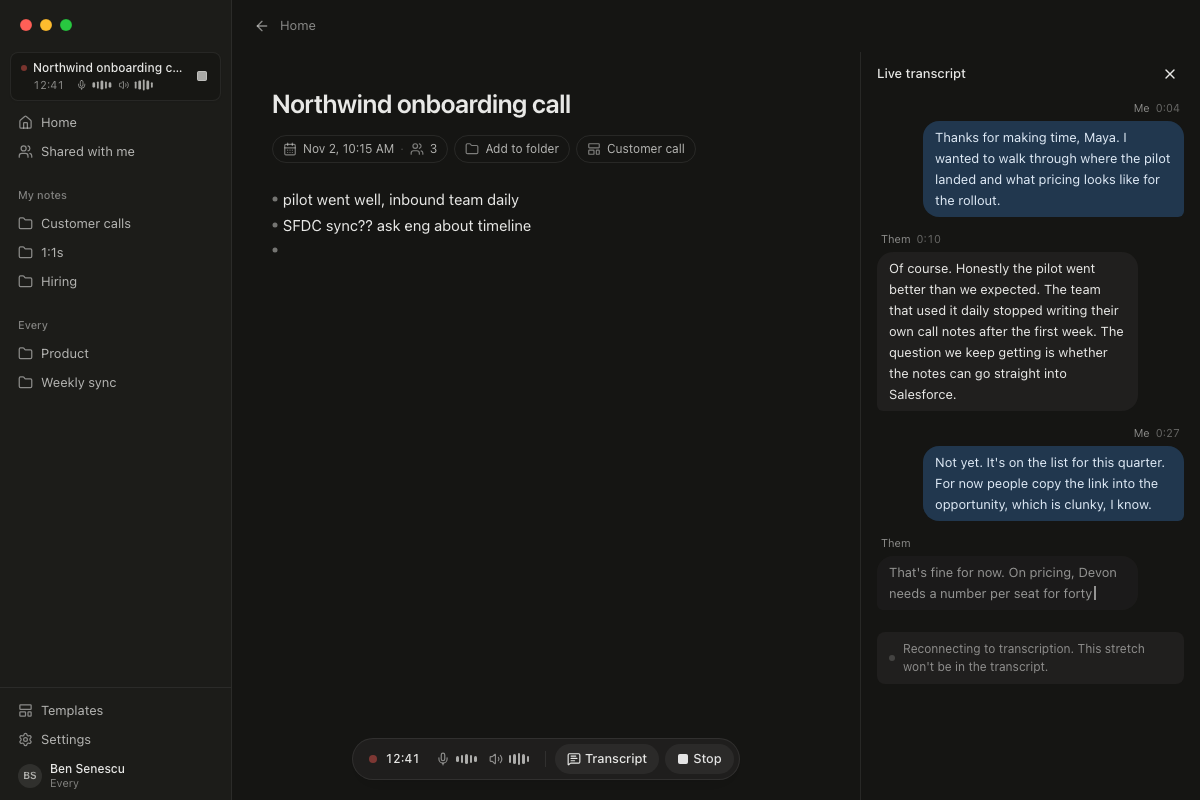
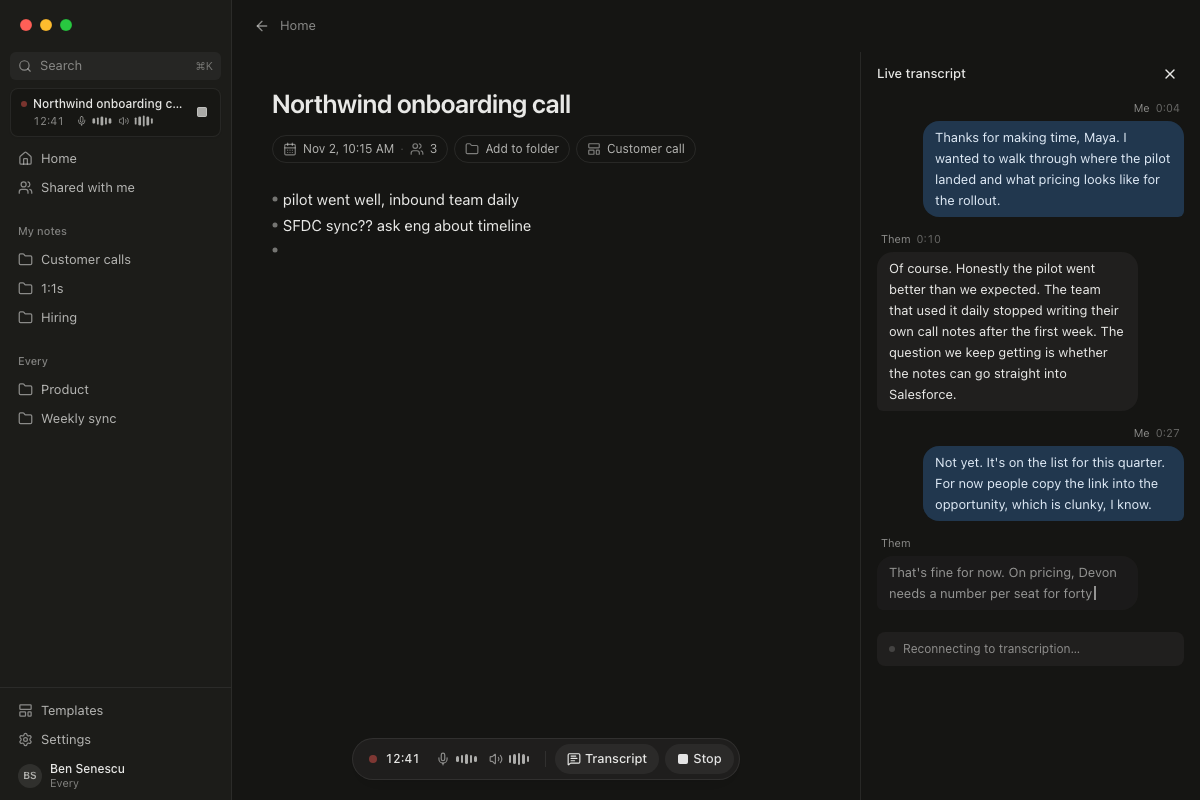
desktop: transcription catching-up hint, honest reconnecting copy, Finishing… while a long Stop replays (#40)

diff --git a/packages/ui/src/screens/MeetingScreen.tsx b/packages/ui/src/screens/MeetingScreen.tsx
@@ -50,6 +50,14 @@ import { ErrorState, ownerLabel } from "./parts";
 import { ChannelMeters, Elapsed, RecordDot } from "./recording";
 import { Transcript } from "./Transcript";
 
+export type TranscriptionNote = "reconnecting" | "catching_up";
+
+/** What the live view says about transcription. */
+export const transcriptionText: Record<TranscriptionNote, string> = {
+  reconnecting: "Reconnecting to transcription…",
+  catching_up: "Catching up on the transcript…",
+};
+
 export type MeetingPhase = "before" | "during" | "after";
 export type MeetingTab = "notes" | "jottings" | "transcript";
 
@@ -72,8 +80,13 @@ export interface MeetingScreenProps {
   warning?: string | null;
   /** The helper's own words for the warning, shown on hover. */
   warningDetail?: string | null;
-  /** Live transcription can't be reached: what's said meanwhile won't be transcribed. */
-  transcriptionPaused?: boolean;
+  /**
+   * Live transcription's state: "reconnecting" (it can't be reached; the audio is kept) or
+   * "catching_up" (that audio is being transcribed and lands in place). Null when live.
+   */
+  transcription?: TranscriptionNote | null;
+  /** Stop was pressed and the recording is finishing (a long outage's replay can take a while). */
+  stopping?: boolean;
   folders: Folder[];
   templates: Template[];
   orgName: string;
@@ -139,7 +152,7 @@ export function MeetingScreen(props: MeetingScreenProps) {
         <TranscriptDrawer
           live={props.live}
           meeting={meeting}
-          paused={!!props.transcriptionPaused}
+          note={props.transcription ?? null}
           onClose={() => setTranscriptOpen(false)}
         />
       )}
@@ -626,7 +639,8 @@ function ControlBar({
   drawerOpen,
   warning,
   warningDetail,
-  transcriptionPaused,
+  transcription,
+  stopping,
 }: MeetingScreenProps & {
   transcriptOpen: boolean;
   onToggleTranscript: () => void;
@@ -639,13 +653,17 @@ function ControlBar({
         drawerOpen && "right-[340px]",
       )}
     >
-      {phase === "during" && transcriptionPaused && !drawerOpen && (
+      {phase === "during" && (stopping || (transcription && !drawerOpen)) && (
         <p
           role="status"
           className="animate-in fade-in-0 pointer-events-auto flex items-center gap-1.5 rounded-full bg-background/85 px-3 py-1 text-[12px] text-muted-foreground backdrop-blur"
         >
           <span className="record-pulse size-1.5 rounded-full bg-foreground/40" />
-          {PAUSED_TEXT}
+          {stopping
+            ? transcription === "catching_up"
+              ? transcriptionText.catching_up
+              : "Saving…"
+            : transcriptionText[transcription!]}
         </p>
       )}
       {phase === "during" && warning && (
@@ -702,15 +720,26 @@ function ControlBar({
               <MessageSquareText />
               Transcript
             </Button>
-            <Button
-              variant="secondary"
-              size="sm"
-              className="h-8 rounded-full bg-foreground/[0.06] px-3"
-              onClick={onStop}
-            >
-              <Square className="size-3 fill-current" />
-              Stop
-            </Button>
+            {stopping ? (
+              <Button
+                variant="secondary"
+                size="sm"
+                className="h-8 rounded-full bg-foreground/[0.06] px-3"
+                pending
+              >
+                Finishing…
+              </Button>
+            ) : (
+              <Button
+                variant="secondary"
+                size="sm"
+                className="h-8 rounded-full bg-foreground/[0.06] px-3"
+                onClick={onStop}
+              >
+                <Square className="size-3 fill-current" />
+                Stop
+              </Button>
+            )}
           </Bar>
         )}
       </div>
@@ -722,18 +751,15 @@ function Bar({ children }: { children: ReactNode }) {
   return <div className="flex items-center gap-1">{children}</div>;
 }
 
-const PAUSED_TEXT =
-  "Reconnecting to transcription. This stretch won't be in the transcript.";
-
 function TranscriptDrawer({
   live,
   meeting,
-  paused,
+  note,
   onClose,
 }: {
   live: LiveState;
   meeting: MeetingDetail;
-  paused: boolean;
+  note: TranscriptionNote | null;
   onClose: () => void;
 }) {
   return (
@@ -769,13 +795,13 @@ function TranscriptDrawer({
           follow
           emptyText="Listening… what's said shows up here."
         />
-        {paused && (
+        {note && (
           <p
             role="status"
             className="mt-4 flex items-center gap-2 rounded-lg bg-muted px-3 py-2 text-[12px] text-muted-foreground"
           >
             <span className="record-pulse size-1.5 shrink-0 rounded-full bg-foreground/40" />
-            {PAUSED_TEXT}
+            {transcriptionText[note]}
           </p>
         )}
       </div>

diff --git a/packages/ui/src/screens/screens.test.tsx b/packages/ui/src/screens/screens.test.tsx
@@ -112,30 +112,82 @@ describe("MeetingScreen", () => {
     expect(onStop).toHaveBeenCalledOnce();
   });
 
-  it("during: says when live transcription is reconnecting", () => {
-    render(
+  const live = {
+    recording: {
+      meetingId: "m-1",
+      title: "Pricing call",
+      startedAt: "",
+      mode: "realtime" as const,
+      mic: "ok" as const,
+      system: "ok" as const,
+    },
+    levels: { mic: 0, system: 0 },
+    partial: { me: "", them: "" },
+    elapsedMs: 0,
+  };
+
+  it("during: says when transcription is reconnecting, then catching up", () => {
+    const { rerender } = render(
       <MeetingScreen
         {...base}
         phase="during"
-        transcriptionPaused
-        live={{
-          recording: {
-            meetingId: "m-1",
-            title: "Pricing call",
-            startedAt: "",
-            mode: "realtime",
-            mic: "ok",
-            system: "ok",
-          },
-          levels: { mic: 0, system: 0 },
-          partial: { me: "", them: "" },
-          elapsedMs: 0,
-        }}
+        transcription="reconnecting"
+        live={live}
       />,
     );
-    expect(screen.getByRole("status").textContent).toMatch(
-      /Reconnecting to transcription/,
+    expect(screen.getByRole("status").textContent).toBe(
+      "Reconnecting to transcription…",
     );
+    rerender(
+      <MeetingScreen
+        {...base}
+        phase="during"
+        transcription="catching_up"
+        live={live}
+      />,
+    );
+    expect(screen.getByRole("status").textContent).toBe(
+      "Catching up on the transcript…",
+    );
+    rerender(
+      <MeetingScreen
+        {...base}
+        phase="during"
+        transcription={null}
+        live={live}
+      />,
+    );
+    expect(screen.queryByRole("status")).toBeNull();
+  });
+
+  it("during: a long Stop shows Finishing, and says it's catching up when it is", () => {
+    const onStop = vi.fn();
+    const { rerender } = render(
+      <MeetingScreen
+        {...base}
+        phase="during"
+        stopping
+        transcription="catching_up"
+        live={live}
+        onStop={onStop}
+      />,
+    );
+    expect(screen.getByText("Catching up on the transcript…")).toBeTruthy();
+    const finishing = screen.getByRole("button", {
+      name: /Finishing/,
+    }) as HTMLButtonElement;
+    expect(finishing.disabled).toBe(true);
+    expect(screen.queryByRole("button", { name: /^Stop$/ })).toBeNull();
+    rerender(
+      <MeetingScreen
+        {...base}
+        phase="during"
+        stopping
+        live={live}
+        onStop={onStop}
+      />,
+    );
+    expect(screen.getByText("Saving…")).toBeTruthy();
   });
 
   it("during: shows a quiet warning above the controls", () => {

diff --git a/desktop/test/renderer.test.ts b/desktop/test/renderer.test.ts
@@ -162,3 +162,24 @@ describe("following a recording started outside the window (Codex V2)", () => {
     expect(liveMeetingToOpen(recording, { state: "stopping", meetingId: "m9" }, { pathname: "/", ownStart: false })).toBeNull();
   });
 });
+
+describe("time-based segment seqs (lane H #37)", () => {
+  it("slots replayed segments into place, in time order, whatever order they arrive in", () => {
+    const seq = (startedMs: number, them: boolean, replayed: boolean) => startedMs * 4 + (them ? 2 : 0) + (replayed ? 1 : 0);
+    const seg = (startedMs: number, speaker: "me" | "them", replayed = false) => ({
+      event: "transcript.segment" as const,
+      seq: seq(startedMs, speaker === "them", replayed),
+      speaker,
+      text: `${speaker}@${startedMs}`,
+      startedMs,
+      endedMs: startedMs + 900,
+    });
+    // Live before and after an outage, then the outage's audio replayed late.
+    const s = [seg(1_000, "me"), seg(60_000, "them"), seg(20_000, "them", true), seg(30_000, "me", true), seg(20_000, "them", true)].reduce(
+      reduceTranscript,
+      emptyTranscript,
+    );
+    expect(s.segments.map((x) => x.text)).toEqual(["me@1000", "them@20000", "me@30000", "them@60000"]);
+    expect(mergeSegments([], s.segments).map((x) => x.startedMs)).toEqual([1_000, 20_000, 30_000, 60_000]);
+  });
+});

diff --git a/desktop/test/connection.test.ts b/desktop/test/connection.test.ts
@@ -1,5 +1,5 @@
 import { describe, expect, it } from "vitest";
-import { connectionOf, gateOf, signInAgainOf, transcriptionPaused, type Snapshot } from "../src/renderer/src/connection";
+import { connectionOf, gateOf, signInAgainOf, transcriptionNoteOf, type Snapshot } from "../src/renderer/src/connection";
 
 const base = {
   version: "0.1.0",
@@ -55,9 +55,10 @@ describe("connection", () => {
     expect(signInAgainOf(with_({ auth: { status: "signingIn" } }))).toMatchObject({ kind: "oauth", signingIn: true });
   });
 
-  it("knows when live transcription is reconnecting", () => {
-    expect(transcriptionPaused(base)).toBe(false);
-    expect(transcriptionPaused(with_({ recording: { transcription: "reconnecting" } }))).toBe(true);
-    expect(transcriptionPaused(with_({ recording: { transcription: "live" } }))).toBe(false);
+  it("says when transcription is reconnecting or catching up", () => {
+    expect(transcriptionNoteOf(base)).toBeNull();
+    expect(transcriptionNoteOf(with_({ recording: { transcription: "reconnecting" } }))).toBe("reconnecting");
+    expect(transcriptionNoteOf(with_({ recording: { transcription: "catching_up" } }))).toBe("catching_up");
+    expect(transcriptionNoteOf(with_({ recording: { transcription: "live" } }))).toBeNull();
   });
 });

diff --git a/desktop/src/renderer/src/pages/Meeting.tsx b/desktop/src/renderer/src/pages/Meeting.tsx
@@ -7,7 +7,7 @@ import { copyLink, draftKey, useRun, useStartRecording, useStopRecording } from 
 import { api, cleanError, keys } from "../api";
 import { useJottings } from "../jottings";
 import { SLOW_CONNECTION } from "../recording";
-import { transcriptionPaused } from "../connection";
+import { transcriptionNoteOf } from "../connection";
 import { mergeSegments, partialOf, useLevels, useLiveTranscript } from "../live";
 import { accountFrom } from "../map";
 import { notify } from "../notice";
@@ -83,7 +83,8 @@ export function MeetingPage({ id, tab }: { id: string; tab?: MeetingTab }) {
       live={live}
       warning={recordingHere && rec.warning ? SLOW_CONNECTION : null}
       warningDetail={recordingHere ? rec.warning : null}
-      transcriptionPaused={recordingHere && transcriptionPaused(state)}
+      transcription={recordingHere ? transcriptionNoteOf(state) : null}
+      stopping={recordingHere && rec.state === "stopping"}
       folders={folders.data ?? []}
       templates={templates.data?.templates ?? []}
       orgName={accountFrom(me.data, state?.auth)?.orgName ?? "Team"}

diff --git a/packages/ui/playground/scenes.tsx b/packages/ui/playground/scenes.tsx
@@ -530,7 +530,31 @@ export const scenes: Scene[] = [
       <MeetingScene
         phase="during"
         {...ctx}
-        extra={{ transcriptionPaused: true, defaultTranscriptOpen: true }}
+        extra={{ transcription: "reconnecting", defaultTranscriptOpen: true }}
+      />
+    ),
+  },
+  {
+    id: "meeting-during-catching-up",
+    group: "Meeting",
+    label: "During, catching up",
+    render: (ctx) => (
+      <MeetingScene
+        phase="during"
+        {...ctx}
+        extra={{ transcription: "catching_up" }}
+      />
+    ),
+  },
+  {
+    id: "meeting-stopping",
+    group: "Meeting",
+    label: "Stopping after an outage",
+    render: (ctx) => (
+      <MeetingScene
+        phase="during"
+        {...ctx}
+        extra={{ transcription: "catching_up", stopping: true }}
       />
     ),
   },

diff --git a/desktop/src/renderer/src/connection.ts b/desktop/src/renderer/src/connection.ts
@@ -45,5 +45,11 @@ export function signInAgainOf(state: Snapshot | undefined): SignInAgain | null {
   return { kind: "oauth", appUrl, signingIn, error: auth.error };
 }
 
-export const transcriptionPaused = (state: Snapshot | undefined): boolean =>
-  state?.recording.transcription === "reconnecting";
+/**
+ * What the live view says about transcription: "reconnecting" (can't reach it; the helper keeps
+ * the audio), then "catching_up" (that audio is transcribed and lands in place), then nothing.
+ */
+export function transcriptionNoteOf(state: Snapshot | undefined): "reconnecting" | "catching_up" | null {
+  const t = state?.recording.transcription;
+  return t === "reconnecting" || t === "catching_up" ? t : null;
+}
